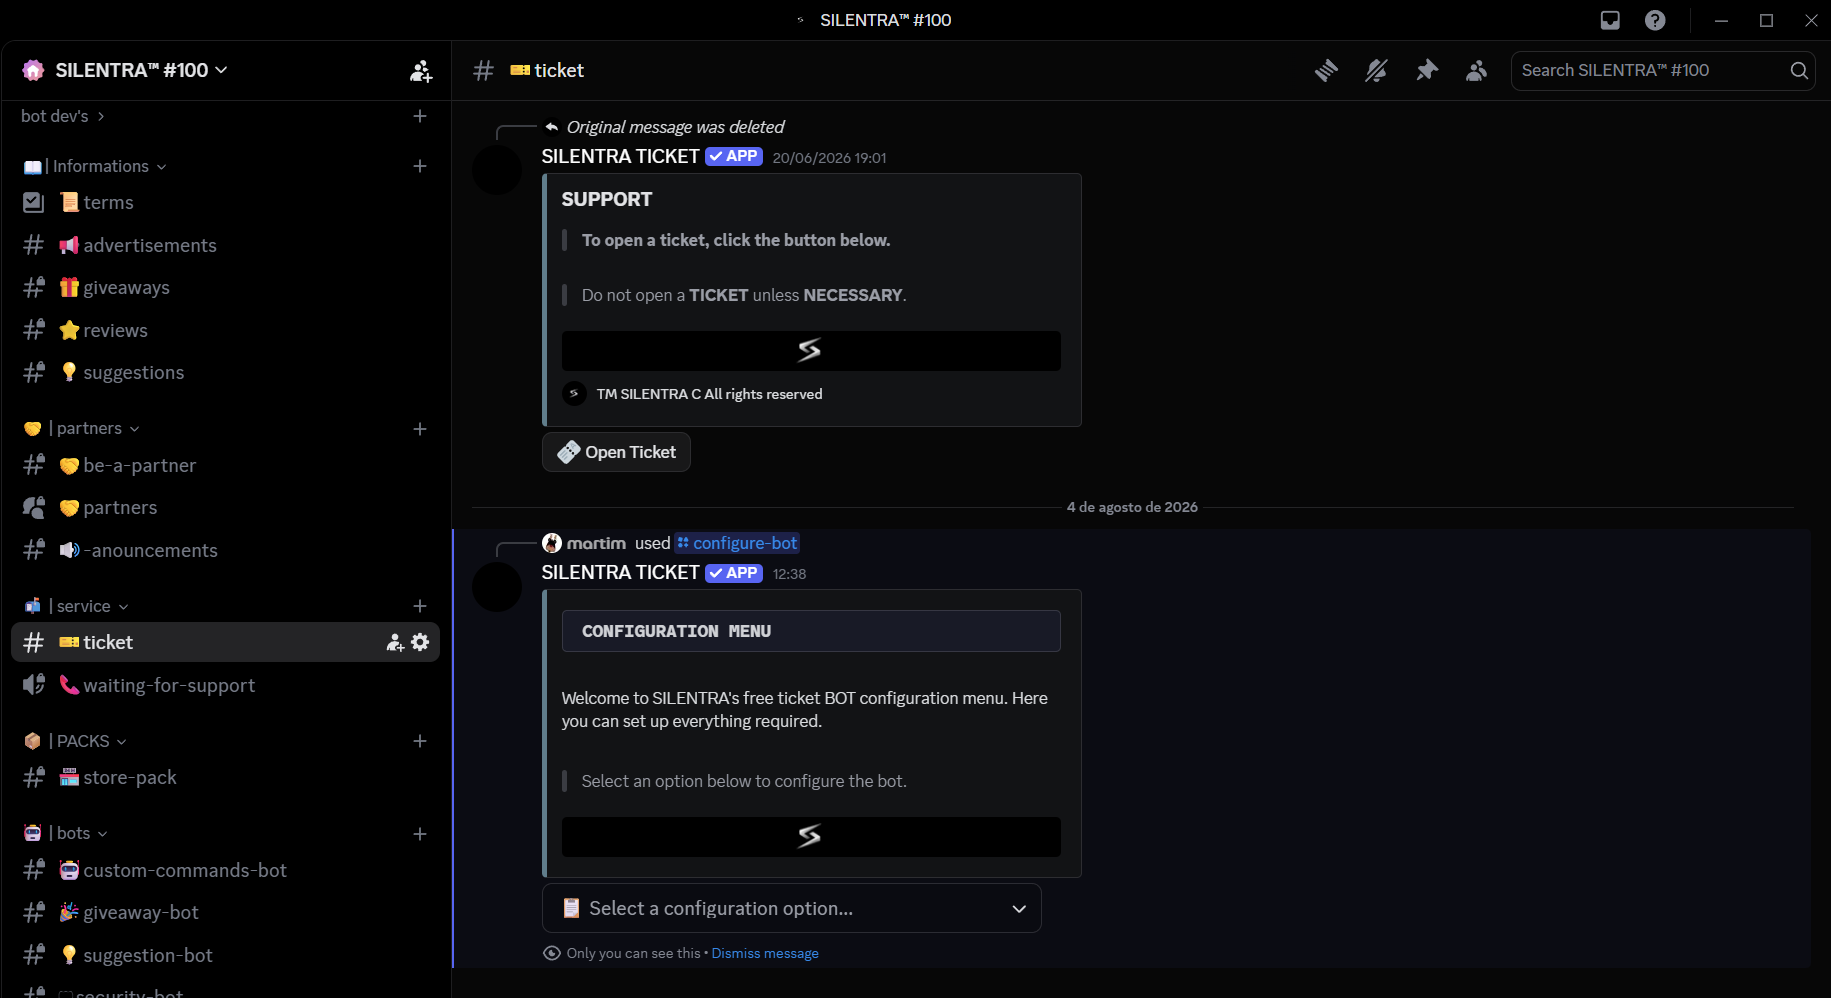
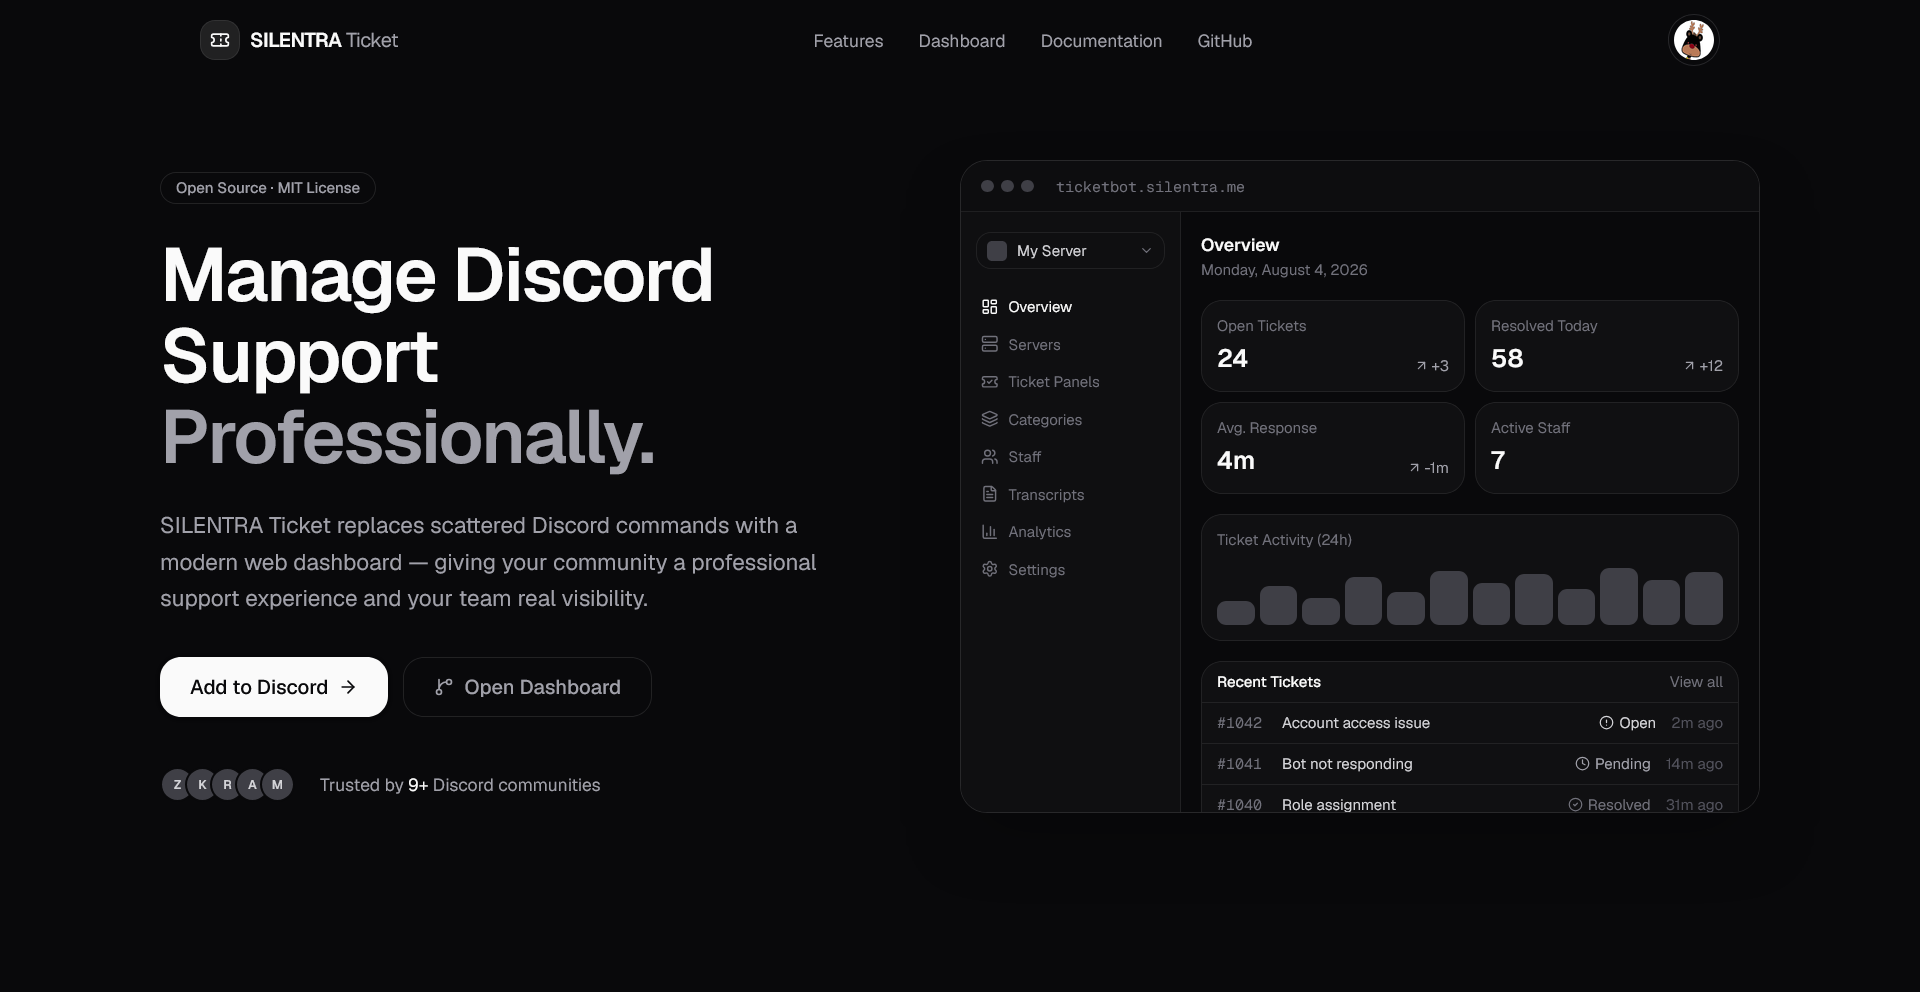
Refactor code structure for improved readability and maintainability

diff --git a/components/i18n.tsx b/components/i18n.tsx
@@ -170,10 +170,10 @@ export const copy = {
         "Produto completo de gestão financeira pessoal, com dashboard, despesas recorrentes, objetivos e organização do dinheiro do dia a dia.",
       ],
       tags: [
-        ["Next.js", "UX/UI", "Conversão"],
-        ["Next.js", "Motion", "SEO"],
-        ["Next.js", "UX/UI", "Mobile"],
-        ["Next.js", "TypeScript", "Supabase"],
+        ["Next.js", "UX/UI", "Conversão", "SEO"],
+        ["Next.js", "Motion", "SEO", "UX/UI", "Landing Page"],
+        ["Next.js", "UX/UI", "Mobile", "Discord Bot", "Ticket System"],
+        ["Next.js", "TypeScript", "Supabase", "Web App", "Gestão Financeira"],
       ],
     },
     why: {
@@ -357,10 +357,10 @@ export const copy = {
         "A complete personal finance product with dashboards, recurring expenses, goals and a cleaner way to manage everyday money.",
       ],
       tags: [
-        ["Next.js", "UX/UI", "Conversion"],
-        ["Next.js", "Motion", "SEO"],
-        ["Next.js", "UX/UI", "Mobile"],
-        ["Next.js", "TypeScript", "Supabase"],
+        ["Next.js", "UX/UI", "Conversion", "SEO"],
+        ["Next.js", "Motion", "SEO", "UX/UI", "Landing Page"],
+        ["Next.js", "UX/UI", "Mobile", "Discord Bot", "Ticket System"],
+        ["Next.js", "TypeScript", "Supabase", "Web App", "Personal Finance"],
       ],
     },
     why: {

diff --git a/components/work.tsx b/components/work.tsx
@@ -18,14 +18,14 @@ const projects = [
     url: "https://lab-customs-clipper.vercel.app/",
   },
   {
-    name: "Cabra Cega Tattoo Studio",
-    image: undefined,
-    url: "https://github.com/martimfm1/cabra-cega-tattoo-studio",
+    name: "Ticket Discord Bot ",
+    image: "/work-silentra-discord-bot.png",
+    url: "https://ticketbot.silentra.me/",
   },
   {
     name: "MoneyFlow",
-    image: undefined,
-    url: "https://github.com/martimfm1/MoneyFlow",
+    image: "/work-silentra-moneyflow.png",
+    url: "https://moneyflow-ten-dusky.vercel.app/",
   },
 ];
 const cardVariants = {
